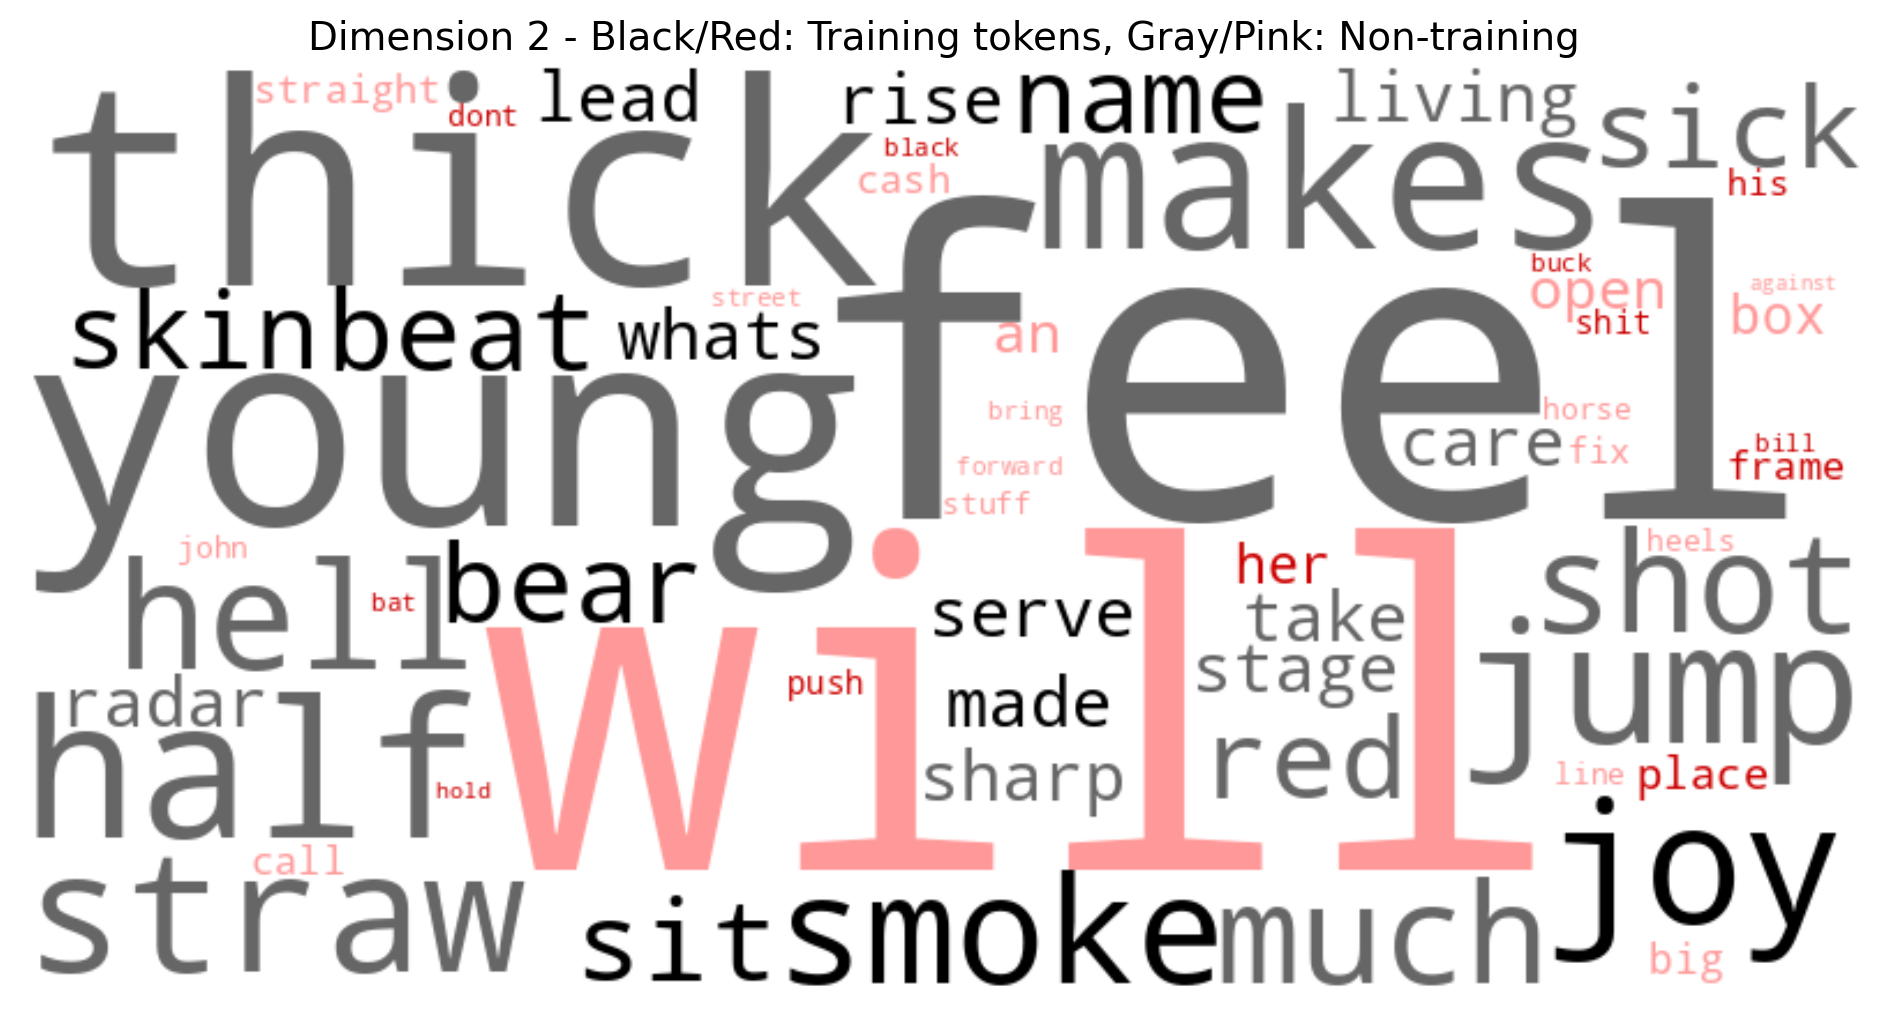
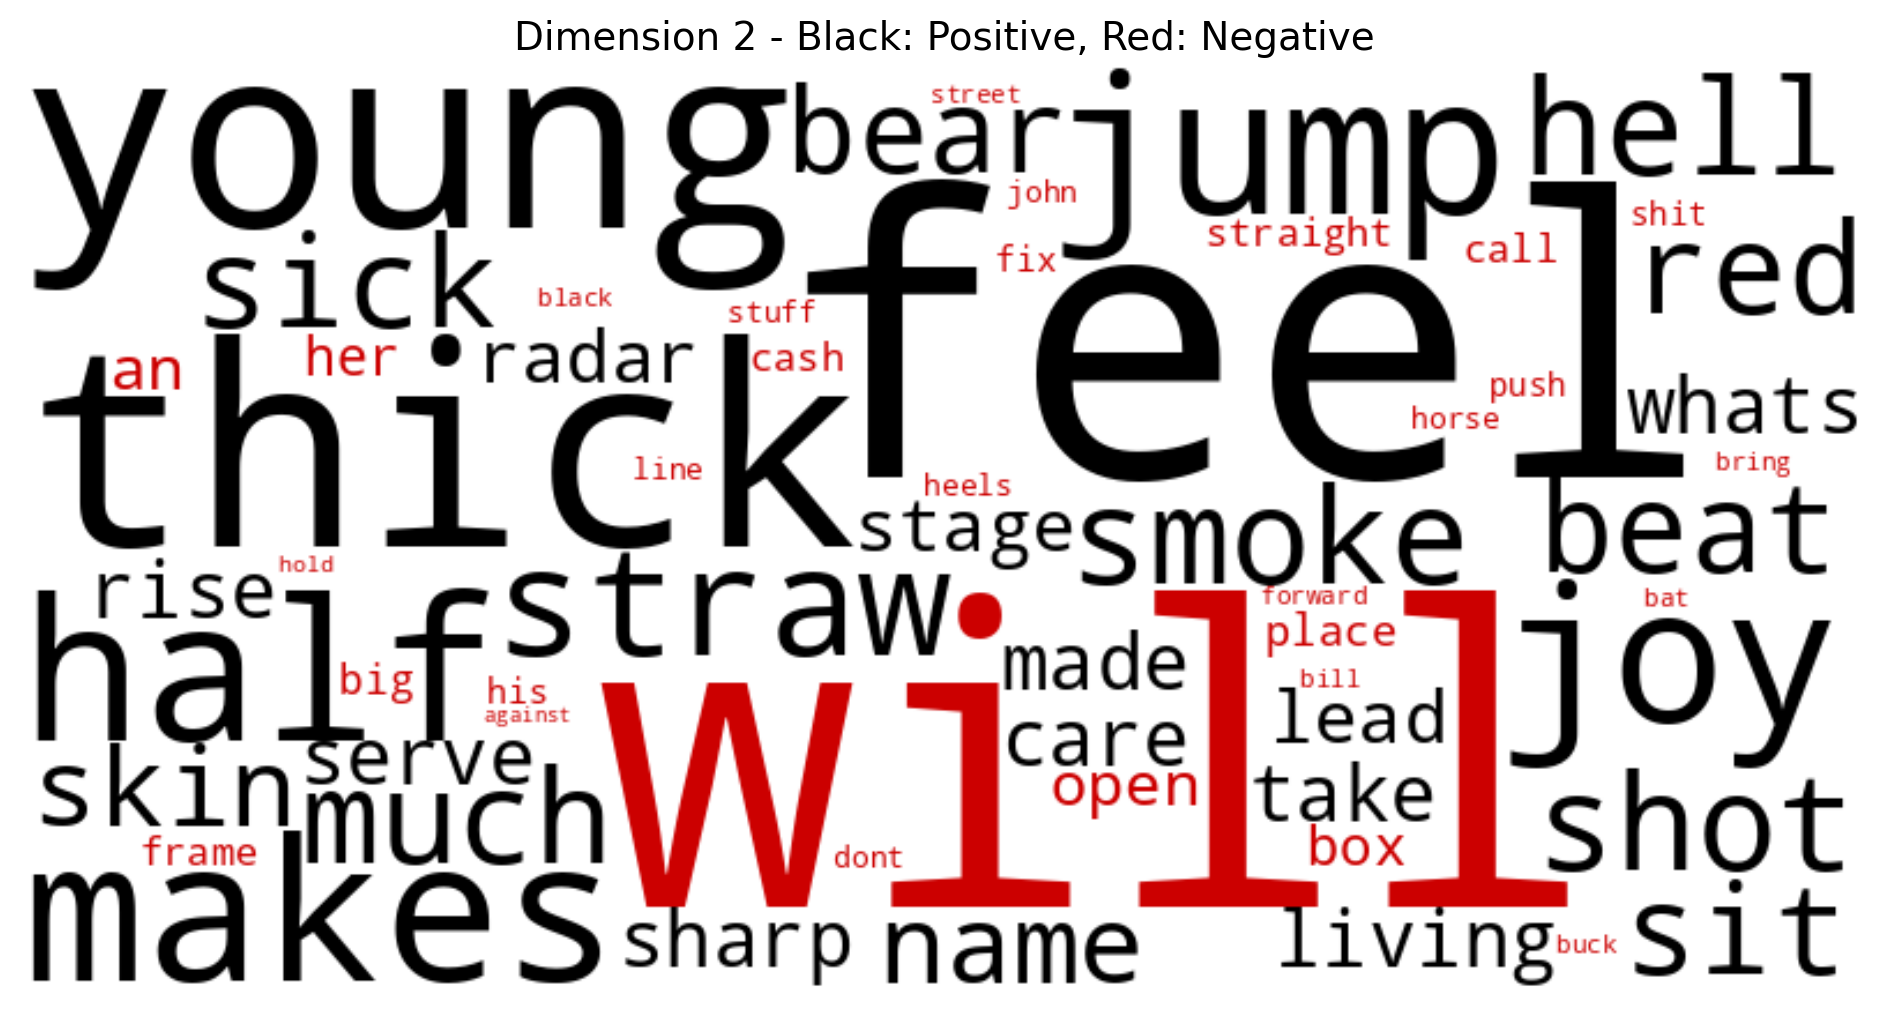
maybe working

diff --git a/visualize_tokens.py b/visualize_tokens.py
@@ -7,6 +7,9 @@ Can validate which tokens are from training data vs. inherited from GPT-2.
 """
 
 import os
+from dotenv import load_dotenv
+
+load_dotenv()
 import sys
 import torch
 import numpy as np
@@ -42,24 +45,20 @@ def create_vocabulary_mapping(vocab_size, nanogpt_path=None):
     """Create a mapping from model indices to token strings."""
     print(f"Creating vocabulary mapping for {vocab_size} tokens...")
 
-    # Try to load meta_word.pkl for word tokenizer
-    meta_path = "/Users/samueljoseph/Documents/Github/tansaku/nanoGPT/data/knockknock/meta_word.pkl"
+    meta_path = os.environ.get("NANOGPT_META_PATH", "./meta_word.pkl")
     if os.path.exists(meta_path):
         try:
             import pickle
 
             meta = pickle.load(open(meta_path, "rb"))
-            if "itos" in meta and "stoi" in meta:
+            if "itos" in meta:
                 print("Using word tokenizer vocabulary from meta_word.pkl")
-                # Create mapping from token IDs to actual words
-                vocab = {}
-                for i in range(vocab_size):
-                    if i in meta["itos"]:
-                        vocab[i] = meta["itos"][i]
-                    else:
-                        vocab[i] = f"<unknown_{i}>"
+                vocab = (
+                    meta["itos"]
+                    if isinstance(meta["itos"], dict)
+                    else {i: str(token) for i, token in enumerate(meta["itos"])}
+                )
                 print(f"Mapped {len(vocab)} word tokens")
-                # Print some sample mappings
                 print("Sample token mappings:")
                 for i in range(min(10, len(vocab))):
                     print(f"  {i} -> {vocab[i]}")
@@ -67,11 +66,10 @@ def create_vocabulary_mapping(vocab_size, nanogpt_path=None):
         except Exception as e:
             print(f"Failed to load meta_word.pkl: {e}")
 
-    # If it's a standard GPT-2 sized vocabulary, use tiktoken directly
     if vocab_size >= 50000:
         print("Using standard GPT-2 vocabulary")
         enc = tiktoken.get_encoding("gpt2")
-        gpt2_vocab_size = enc.n_vocab  # This should be 50257
+        gpt2_vocab_size = enc.n_vocab
         print(f"GPT-2 vocabulary size: {gpt2_vocab_size}")
 
         vocab = {}
@@ -82,7 +80,6 @@ def create_vocabulary_mapping(vocab_size, nanogpt_path=None):
                 except:
                     vocab[i] = f"<decode_error_{i}>"
             else:
-                # Tokens beyond GPT-2 vocabulary - likely special tokens
                 vocab[i] = f"<extra_token_{i}>"
 
         print(
@@ -90,28 +87,24 @@ def create_vocabulary_mapping(vocab_size, nanogpt_path=None):
         )
         return vocab
 
-    # For smaller vocabularies, use generic token names
     print("Using generic token IDs")
     return {i: f"token_{i}" for i in range(vocab_size)}
 
 
 def analyze_training_data(training_data_path, vocab):
-    """Analyze the training data to see which tokens actually appear."""
     print(f"\n📚 Analyzing training data: {training_data_path}")
 
     if not os.path.exists(training_data_path):
         print(f"❌ Training data not found: {training_data_path}")
-        return None
+        return set()
 
-    # Load and tokenize the training text
     with open(training_data_path, "r", encoding="utf-8") as f:
         training_text = f.read()
 
     print(f"📝 Training text length: {len(training_text)} characters")
     print(f"📝 First 200 chars: {repr(training_text[:200])}")
 
-    # Try to use word tokenizer from meta_word.pkl
-    meta_path = "/Users/samueljoseph/Documents/Github/tansaku/nanoGPT/data/knockknock/meta_word.pkl"
+    meta_path = os.environ.get("NANOGPT_META_PATH", "./meta_word.pkl")
     if os.path.exists(meta_path):
         try:
             import pickle
@@ -121,153 +114,61 @@ def analyze_training_data(training_data_path, vocab):
                 print("Using word tokenizer from meta_word.pkl")
                 tokenizer = meta["tokenizer"]
                 training_tokens = tokenizer.encode(training_text)
-                print(f"🔢 Training tokens: {len(training_tokens)}")
-                print(f"🔢 Unique training tokens: {len(set(training_tokens))}")
-
-                # Map back to our vocabulary indices
-                training_vocab_indices = set()
-                for token_id in set(training_tokens):
-                    if token_id < len(vocab):
-                        training_vocab_indices.add(token_id)
-
-                print(
-                    f"✅ Found {len(training_vocab_indices)} training tokens in model vocabulary"
-                )
-
-                # Show sample training tokens
-                sample_training_tokens = []
-                for idx in list(training_vocab_indices)[:20]:
-                    sample_training_tokens.append(vocab.get(idx, f"token_{idx}"))
-                print(f"📋 Sample training tokens: {sample_training_tokens}")
-
+                training_vocab_indices = set(training_tokens)
+                print(f"✅ Found {len(training_vocab_indices)} unique training tokens")
                 return training_vocab_indices
         except Exception as e:
             print(f"Failed to use word tokenizer: {e}")
 
-    # Fallback to GPT-2 tokenizer
     try:
-        import tiktoken
-
         enc = tiktoken.get_encoding("gpt2")
-        # Allow the endoftext special token that appears in training data
         training_token_ids = enc.encode(
             training_text, allowed_special={"<|endoftext|>"}
         )
-
-        print(f"🔢 Training tokens: {len(training_token_ids)}")
-        print(f"🔢 Unique training tokens: {len(set(training_token_ids))}")
-
-        # Map back to our vocabulary indices
-        training_vocab_indices = set()
-        for token_id in set(training_token_ids):
-            # For GPT-2 vocabulary, token_id should equal vocab index
-            if token_id < len(vocab):
-                training_vocab_indices.add(token_id)
-
-        print(
-            f"✅ Found {len(training_vocab_indices)} training tokens in model vocabulary"
-        )
-
-        # Show sample training tokens
-        sample_training_tokens = []
-        for idx in list(training_vocab_indices)[:20]:
-            sample_training_tokens.append(vocab.get(idx, f"token_{idx}"))
-        print(f"📋 Sample training tokens: {sample_training_tokens}")
-
+        training_vocab_indices = set(training_token_ids)
+        print(f"✅ Found {len(training_vocab_indices)} unique training tokens")
         return training_vocab_indices
 
     except Exception as e:
         print(f"❌ Failed to analyze training data: {e}")
-        return None
+        return set()
 
 
 def create_word_cloud(
     embeddings, vocab, dimension, output_dir, training_tokens=None, top_n=30
 ):
-    """Create a word cloud for a specific embedding dimension with positive (black) and negative (red) tokens."""
     print(f"Creating word cloud for dimension {dimension}")
 
-    # Get values for this dimension
     dim_values = embeddings[:, dimension].numpy()
-
-    # Get top positive tokens
     pos_indices = np.argsort(-dim_values)[:top_n]
     pos_scores = dim_values[pos_indices]
-
-    # Get top negative tokens (by sorting the most negative values)
     neg_indices = np.argsort(dim_values)[:top_n]
-    neg_scores = -dim_values[neg_indices]  # Make positive for word cloud frequencies
+    neg_scores = -dim_values[neg_indices]
 
-    # Create word frequencies and color mapping
     word_frequencies = {}
     word_colors = {}
 
-    # Add positive tokens (black for training, gray for non-training)
     for idx, score in zip(pos_indices, pos_scores):
-        if score > 0:  # Only truly positive values
-            token = vocab.get(idx, f"token_{idx}")
-            # Convert token to string and clean it
-            token_str = str(token)
-            if token_str and len(token_str) > 0:
-                word_frequencies[token_str] = float(score)
-                if training_tokens is None:
-                    word_colors[token_str] = (
-                        "#000000"  # Black (no training data provided)
-                    )
-                elif idx in training_tokens:
-                    word_colors[token_str] = "#000000"  # Black for training tokens
-                else:
-                    word_colors[token_str] = "#666666"  # Gray for non-training tokens
+        if score > 0:
+            token_str = str(vocab.get(idx, f"token_{idx}"))
+            word_frequencies[token_str] = float(score)
+            word_colors[token_str] = "#000000"
 
-    # Add negative tokens (red for training, pink for non-training)
     for idx, score in zip(neg_indices, neg_scores):
-        if dim_values[idx] < 0:  # Only truly negative values
-            token = vocab.get(idx, f"token_{idx}")
-            # Convert token to string and clean it
-            token_str = str(token)
-            if token_str and len(token_str) > 0 and token_str not in word_frequencies:
-                word_frequencies[token_str] = float(
-                    score
-                )  # Use positive value for frequency
-                if training_tokens is None:
-                    word_colors[token_str] = (
-                        "#CC0000"  # Red (no training data provided)
-                    )
-                elif idx in training_tokens:
-                    word_colors[token_str] = "#CC0000"  # Red for training tokens
-                else:
-                    word_colors[token_str] = "#FF9999"  # Pink for non-training tokens
+        if dim_values[idx] < 0:
+            token_str = str(vocab.get(idx, f"token_{idx}"))
+            if token_str not in word_frequencies:
+                word_frequencies[token_str] = float(score)
+                word_colors[token_str] = "#CC0000"
 
     if not word_frequencies:
         print(f"No valid tokens for dimension {dimension}")
         return
 
     print(
-        f"Dimension {dimension}: {len([c for c in word_colors.values() if c == '#000000'])} positive (black), {len([c for c in word_colors.values() if c == '#CC0000'])} negative (red) tokens"
+        f"Dimension {dimension}: {len([c for c in word_colors.values() if c == '#000000'])} positive, {len([c for c in word_colors.values() if c == '#CC0000'])} negative"
     )
 
-    if training_tokens is not None:
-        # Count training vs non-training tokens
-        training_count = len(
-            [c for c in word_colors.values() if c in ["#000000", "#CC0000"]]
-        )
-        non_training_count = len(
-            [c for c in word_colors.values() if c in ["#666666", "#FF9999"]]
-        )
-        print(
-            f"  → {training_count} from training data, {non_training_count} NOT from training data"
-        )
-
-        # Show examples of non-training tokens
-        non_training_examples = [
-            word
-            for word, color in word_colors.items()
-            if color in ["#666666", "#FF9999"]
-        ][:10]
-        if non_training_examples:
-            print(f"  🔍 Non-training examples: {non_training_examples}")
-
-    # Create word cloud with custom color function
     def color_func(word, **kwargs):
         return word_colors.get(word, "#000000")
 
@@ -280,33 +181,19 @@ def create_word_cloud(
         prefer_horizontal=1.0,
     ).generate_from_frequencies(word_frequencies)
 
-    # Save plot
     plt.figure(figsize=(12, 6))
     plt.imshow(wordcloud, interpolation="bilinear")
     plt.axis("off")
-
-    if training_tokens is not None:
-        plt.title(
-            f"Dimension {dimension} - Black/Red: Training tokens, Gray/Pink: Non-training",
-            fontsize=14,
-        )
-    else:
-        plt.title(
-            f"Dimension {dimension} - Black: Positive, Red: Negative", fontsize=14
-        )
-
+    plt.title(f"Dimension {dimension} - Black: Positive, Red: Negative", fontsize=14)
     output_path = os.path.join(output_dir, f"dimension_{dimension}.png")
     plt.savefig(output_path, dpi=200, bbox_inches="tight")
     plt.close()
-
     print(f"Saved: {output_path}")
 
 
 def main():
     if len(sys.argv) < 2 or len(sys.argv) > 3:
         print("Usage: python visualize_tokens.py <checkpoint.pt> [training_data.txt]")
-        print("Example: python visualize_tokens.py model.pt")
-        print("Example: python visualize_tokens.py model.pt /path/to/training_data.txt")
         sys.exit(1)
 
     checkpoint_path = sys.argv[1]
@@ -316,54 +203,33 @@ def main():
         print(f"Checkpoint not found: {checkpoint_path}")
         sys.exit(1)
 
-    # Load checkpoint
     embeddings, vocab_size, model_args = load_checkpoint(checkpoint_path)
-
-    # Create vocabulary mapping
-    # Try to find nanoGPT path automatically
-    nanogpt_path = None
-    common_paths = [
-        "/Users/samueljoseph/Documents/Github/karpathy/nanoGPT",
-        "/Users/samueljoseph/Documents/Github/tansaku/nanoGPT",
-        os.path.expanduser("~/Documents/Github/karpathy/nanoGPT"),
-        os.path.expanduser("~/Documents/Github/tansaku/nanoGPT"),
-        os.path.expanduser("~/nanoGPT"),
-    ]
-    for path in common_paths:
-        if os.path.exists(path):
-            nanogpt_path = path
-            break
-
+    nanogpt_path = os.environ.get("NANOGPT_PATH")
     vocab = create_vocabulary_mapping(vocab_size, nanogpt_path)
 
-    # Analyze training data if provided
     training_tokens = None
     if training_data_path:
         training_tokens = analyze_training_data(training_data_path, vocab)
+        unused_tokens = set(vocab.keys()) - training_tokens
+        if unused_tokens:
+            print("\n🚨 WARNING: Some vocab tokens do not appear in training data")
+            for tid in sorted(list(unused_tokens)[:10]):
+                print(f"  {tid}: {vocab.get(tid, f'token_{tid}')}")
+            print(f"  ... and {len(unused_tokens) - 10} more (if any)")
 
-    # Create output directory
     output_dir = "token_visualizations"
     os.makedirs(output_dir, exist_ok=True)
 
-    # Create word clouds for first few dimensions
     n_embd = embeddings.shape[1]
-    dimensions_to_visualize = min(5, n_embd)  # First 5 dimensions or all if less
+    dimensions_to_visualize = min(5, n_embd)
 
     print(f"Creating visualizations for {dimensions_to_visualize} dimensions...")
 
     for dim in range(dimensions_to_visualize):
-        create_word_cloud(embeddings, vocab, dim, output_dir, training_tokens)
+        create_word_cloud(embeddings, vocab, dim, output_dir)
 
     print(f"\nDone! Visualizations saved to: {output_dir}/")
     print(f"Created {dimensions_to_visualize} word cloud images")
-
-    if training_tokens is not None:
-        print(
-            f"\n🔍 ANALYSIS: Tokens in embeddings that are NOT from training data suggest:"
-        )
-        print(f"   1. Model was fine-tuned from GPT-2 (retains original embeddings)")
-        print(f"   2. OR model was trained from scratch but with full GPT-2 vocab")
-        print(f"   3. Gray/Pink tokens show GPT-2's influence on your model")
 
 
 if __name__ == "__main__":
